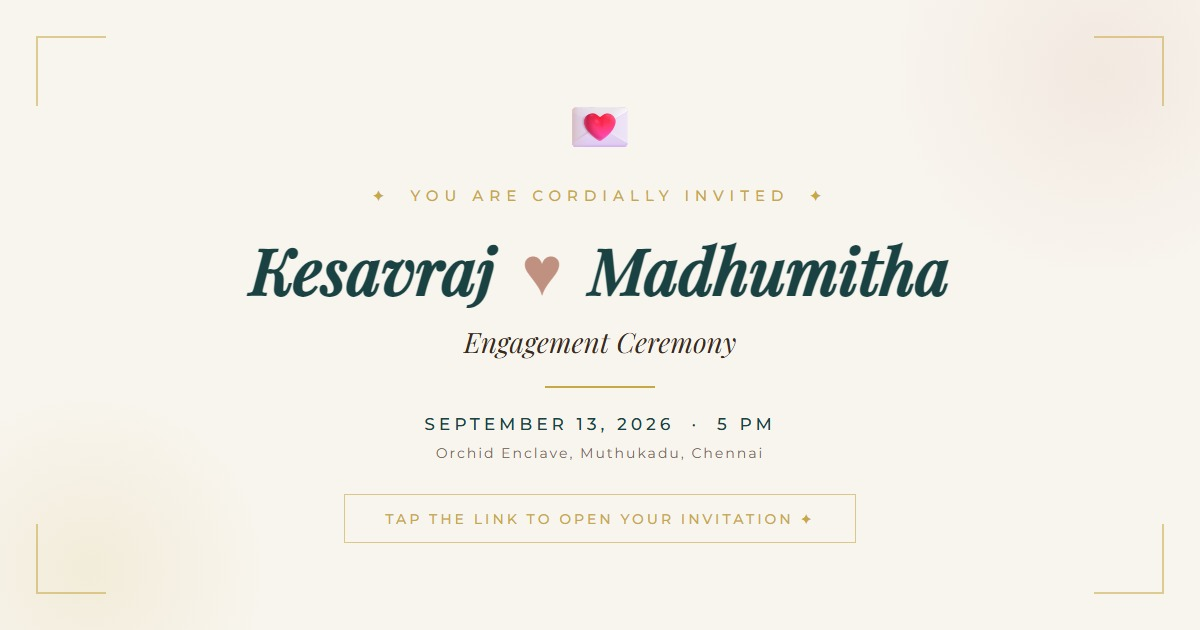
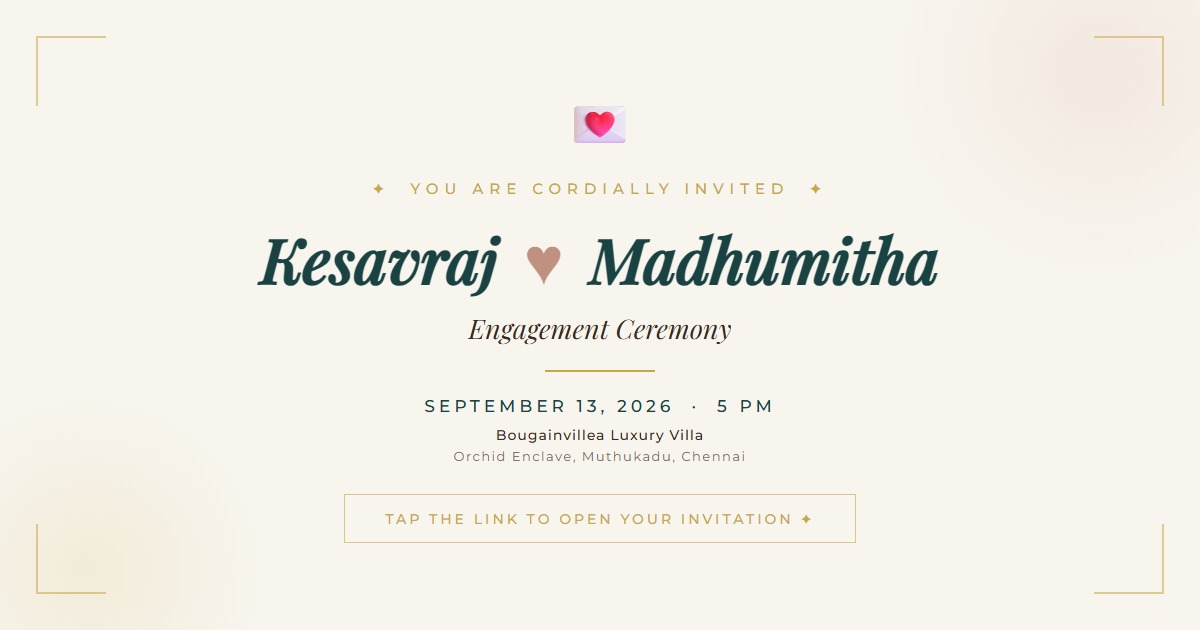
Change menu reveal to 2:30 PM; show graceful message once countdown ends; update invite card

diff --git a/index.html b/index.html
@@ -655,6 +655,22 @@
             padding-bottom:22px;
         }
 
+        .cd-done-title {
+            font-family:var(--ff-serif);
+            font-size:clamp(28px,5vw,40px);
+            font-style:italic;
+            color:#fff;
+            line-height:1.3;
+            margin-bottom:14px;
+        }
+
+        .cd-done-sub {
+            font-family:var(--ff-italic);
+            font-size:16px;
+            font-style:italic;
+            color:var(--gold-light);
+        }
+
         /* =====================================================
            SHARED SECTION STYLES
         ===================================================== */
@@ -1688,15 +1704,21 @@
      COUNTDOWN
 ============================================================ -->
 <div id="countdown">
-    <p class="cd-label">Counting down to the celebration</p>
-    <div class="cd-wrap">
-        <div class="cd-item"><span class="cd-num" id="cd-d">--</span><span class="cd-unit">Days</span></div>
-        <div class="cd-sep">:</div>
-        <div class="cd-item"><span class="cd-num" id="cd-h">--</span><span class="cd-unit">Hours</span></div>
-        <div class="cd-sep">:</div>
-        <div class="cd-item"><span class="cd-num" id="cd-m">--</span><span class="cd-unit">Minutes</span></div>
-        <div class="cd-sep">:</div>
-        <div class="cd-item"><span class="cd-num" id="cd-s">--</span><span class="cd-unit">Seconds</span></div>
+    <div id="cd-active">
+        <p class="cd-label">Counting down to the celebration</p>
+        <div class="cd-wrap">
+            <div class="cd-item"><span class="cd-num" id="cd-d">--</span><span class="cd-unit">Days</span></div>
+            <div class="cd-sep">:</div>
+            <div class="cd-item"><span class="cd-num" id="cd-h">--</span><span class="cd-unit">Hours</span></div>
+            <div class="cd-sep">:</div>
+            <div class="cd-item"><span class="cd-num" id="cd-m">--</span><span class="cd-unit">Minutes</span></div>
+            <div class="cd-sep">:</div>
+            <div class="cd-item"><span class="cd-num" id="cd-s">--</span><span class="cd-unit">Seconds</span></div>
+        </div>
+    </div>
+    <div id="cd-done" style="display:none;">
+        <p class="cd-done-title">✦ &nbsp;The Celebration Has Begun&nbsp; ✦</p>
+        <p class="cd-done-sub">Thank you for being part of our journey 💛</p>
     </div>
 </div>
 
@@ -1869,7 +1891,7 @@
                 <span class="menu-lock-icon">🍽</span>
                 <p class="menu-lock-tag">✦ &nbsp;A Culinary Surprise Awaits&nbsp; ✦</p>
                 <h3 class="menu-lock-title">Menu Unveiled<br>on Event Day</h3>
-                <p class="menu-lock-sub">September 13, 2026 &nbsp;·&nbsp; 4:00 PM</p>
+                <p class="menu-lock-sub">September 13, 2026 &nbsp;·&nbsp; 2:30 PM</p>
                 <p class="menu-lock-hint">A beautiful South Indian spread,<br>curated with love for our cherished guests.</p>
                 <div class="menu-countdown">
                     <div class="mc-item"><span id="mr-d">--</span><small>Days</small></div>
@@ -2114,13 +2136,16 @@
     function closeNav()  { document.getElementById('nav-links').classList.remove('open'); }
 
     /* --- COUNTDOWN --- */
+    var cdTimer;
     function updateCD() {
         const target = new Date('2026-09-13T17:00:00+05:30');
         const now = new Date();
         const diff = target - now;
 
         if (diff <= 0) {
-            ['cd-d','cd-h','cd-m','cd-s'].forEach(id => document.getElementById(id).textContent = '00');
+            document.getElementById('cd-active').style.display = 'none';
+            document.getElementById('cd-done').style.display   = 'block';
+            clearInterval(cdTimer);
             return;
         }
 
@@ -2131,7 +2156,7 @@
         document.getElementById('cd-s').textContent = pad((diff % 60000) / 1000);
     }
     updateCD();
-    setInterval(updateCD, 1000);
+    cdTimer = setInterval(updateCD, 1000);
 
     /* --- SCROLL FADE-IN --- */
     const io = new IntersectionObserver(entries => {
@@ -2143,7 +2168,7 @@
     document.querySelectorAll('.fi').forEach(el => io.observe(el));
 
     /* --- MENU REVEAL --- */
-    var MENU_REVEAL = new Date('2026-09-13T16:00:00+05:30');
+    var MENU_REVEAL = new Date('2026-09-13T14:30:00+05:30');
     var MENU_PREVIEW = window.location.search.indexOf('preview=menu') !== -1;
 
     function checkMenuReveal() {
